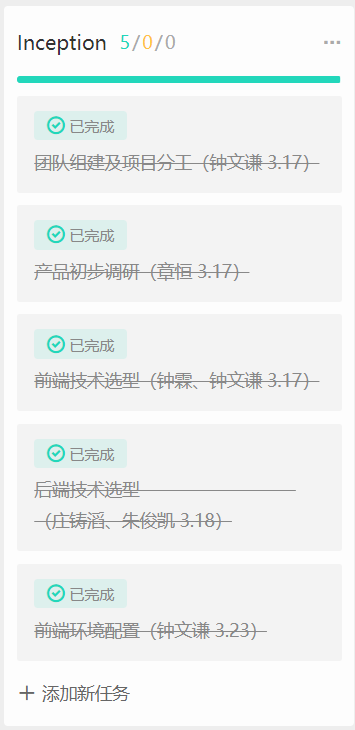
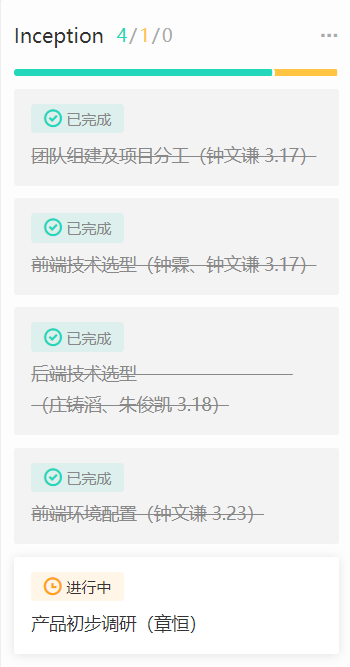
finish KANBAN

diff --git a/document/About.md b/document/About.md
@@ -29,7 +29,7 @@
 ---
 ## 3、敏捷开发迭代管理与大事纪
 
-我们项目小组使用的看板是[Worktile](https://link.zhihu.com/?target=https%3A//worktile.com/solution/project%3Futm_source%3Dzhihu%26utm_medium%3Dkaya%26utm_term%3Dkanban)
+我们项目小组使用的看板是[Worktile](https://heti20190629102823258.worktile.com/mission/projects/5d173d86a3f61c3b135b34f0)
 
 ### Inceptions
 
@@ -57,7 +57,7 @@
 
 ### Iteration 2
 
-**Week 10-12 (2019-5-4 to 2019-5-21)**
+**Week 10-12 (2019-5-4 to 2019-5-19)**
 - 代码规范
 - 用例设计、状态建模与领域建模
 - 数据库设计

diff --git a/document/KANBAN.md b/document/KANBAN.md
@@ -1,0 +1,12 @@
+# 看板
+
+我们小组使用的在线看板使用的是**worktile**
+
+worktile项目地址： https://heti20190629102823258.worktile.com/mission/projects/5d173d86a3f61c3b135b34f0
+
+
+
+![](../pics/看板/Kanban_all1.png)
+
+
+![](../pics/看板/Kanban_all2.png)
